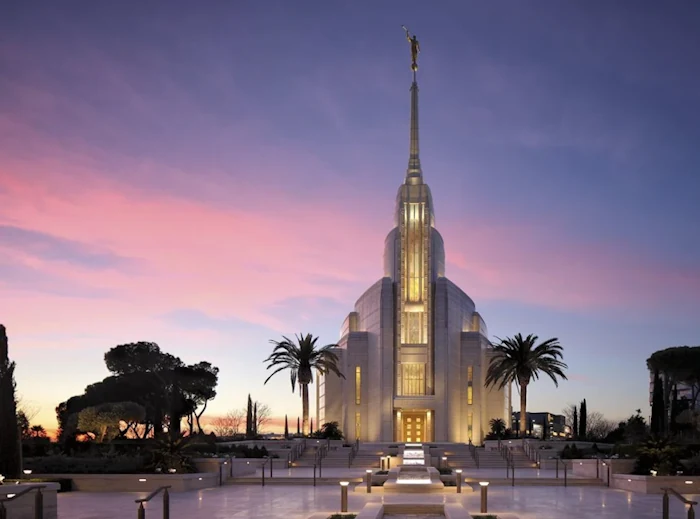
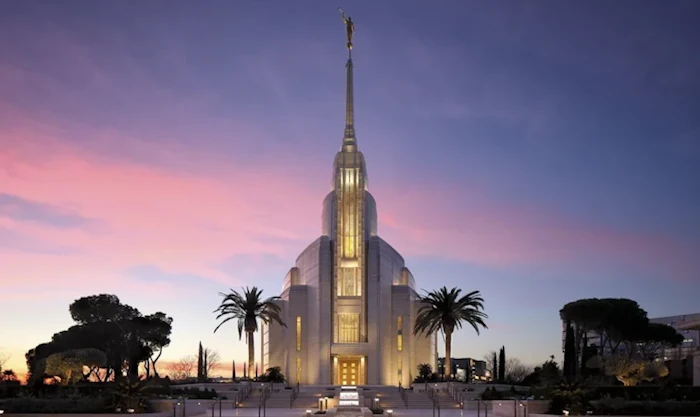
resized hero img + hero label

diff --git a/styles/base.css b/styles/base.css
@@ -1,4 +1,5 @@
 @import url('https://fonts.googleapis.com/css2?family=Comfortaa:wght@400;700&family=Ubuntu:wght@300;400;700&display=swap');
+@import url('https://fonts.googleapis.com/css2?family=Parisienne&display=swap');
 
 body {
     display: block;
@@ -130,18 +131,31 @@ main {
     width: 100%;
     max-width: 500px;
     height: 100%;
-    filter: contrast(110%) grayscale(50%);
+    filter: contrast(110%);
     transition: filter .4s;
 }
 
 .hero-img:hover {
-    filter: contrast(110%) grayscale(0%) saturate(150%);
+    filter: contrast(120%)saturate(150%);
 }
 
 .temple-label {
     position: absolute;
-    top: 20%;
-    left: 5%;
+    bottom: 5%;
+    left: 50%;
+    -ms-transform: translate(-50%, 0%);
+    transform: translate(-50%, 0%);
+    width: 100%;
+    backdrop-filter: blur(10px) saturate(400%);
+    -webkit-backdrop-filter: blur(10px) saturate(400%);
+    background-color: rgba(255, 255, 255, 0.4);
+    box-shadow: 0px 10px 20px #101618;
+}
+
+.temple-label h2 {
+    font-family: "Parisienne";
+    font-size: 2rem;
+    padding: .75rem;
 }
 
 main h2 {

diff --git a/styles/larger.css b/styles/larger.css
@@ -50,13 +50,23 @@
         grid-template-columns: 25px 1.5fr 1fr 25px;
     }
 
-    picture {
+    .hero {
         grid-column: 1/5;
         max-width: 900px;
     }
 
     .hero-img {
         max-width: 900px;
+    }
+
+    /* .temple-label {
+        top: 40%;
+        left: 5%;
+    } */
+
+    .temple-label h2 {
+        font-size: 2.5rem;
+        padding: 1.5rem;
     }
     
     main h2 {
